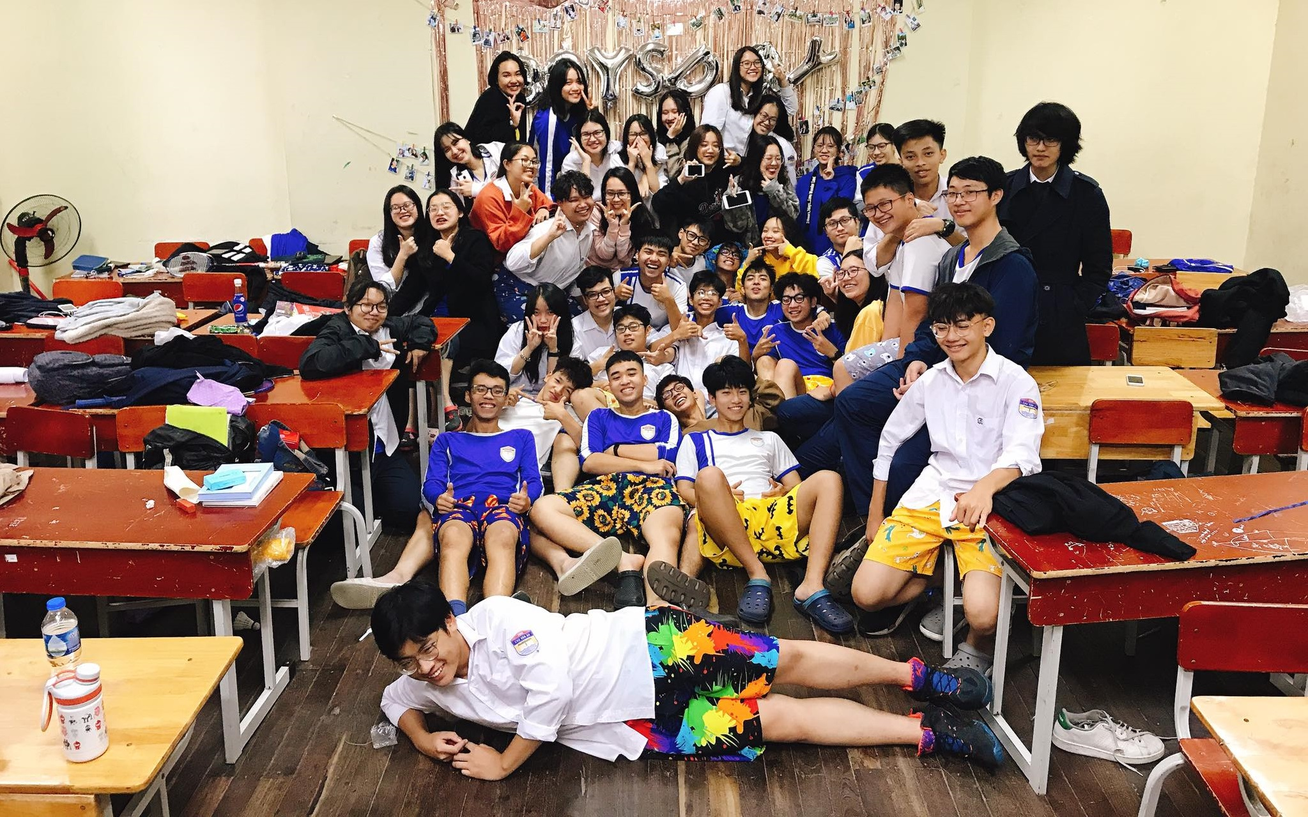
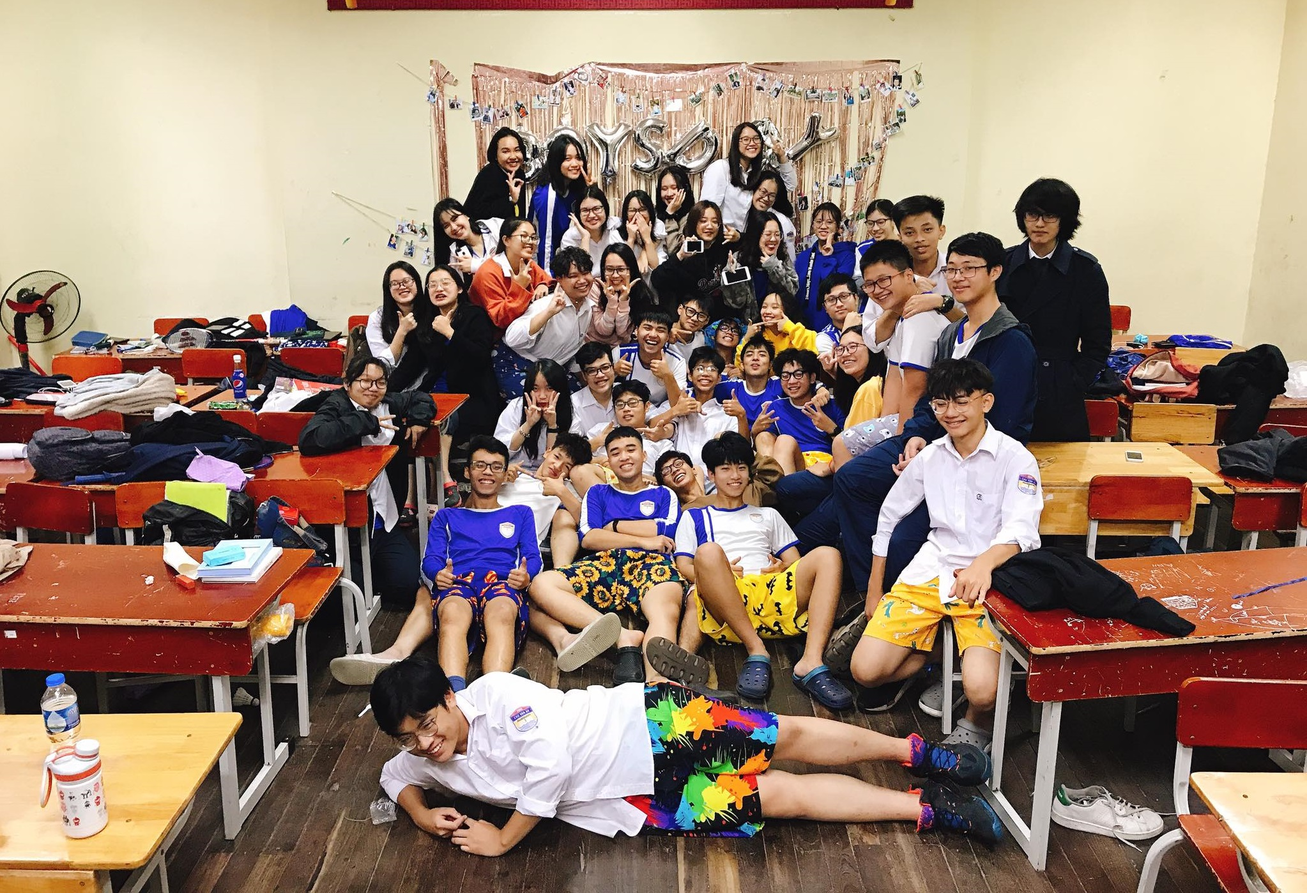
12SN

diff --git a/index.css b/index.css
@@ -6,15 +6,15 @@ body {
   display: flexbox;
   margin: 0;
   padding: 0;
-  background: url(image/125506320_878107672727159_7200774877252394798_n.jpg);
-  background-position: center;
-  background-size: 100%;
-  background-repeat: none;
 }
 
 .container {
   width: 100%;
-  height: 1000px;
+  height: 900px;
+  background: url(image/125506320_878107672727159_7200774877252394798_n.jpg);
+  background-position:center;
+  background-size: 100%;
+  background-repeat: no-repeat;
 }
 
 nav {
@@ -75,7 +75,6 @@ nav ul li a:hover {
 .studentSummon {
   width: 80%;
   height: 60vh;
-  /* background: tomato; */
   background: transparent;
   margin: 120px 0px 0px 120px;
 }
@@ -103,7 +102,7 @@ nav ul li a:hover {
   display: inline-block;
   width: auto;
   margin-left: 370px;
-  background: transparent;
+  /* background: transparent; */
   padding: 12px;
   font-family: 'Alata', sans-serif;
   font-size: 36px;
